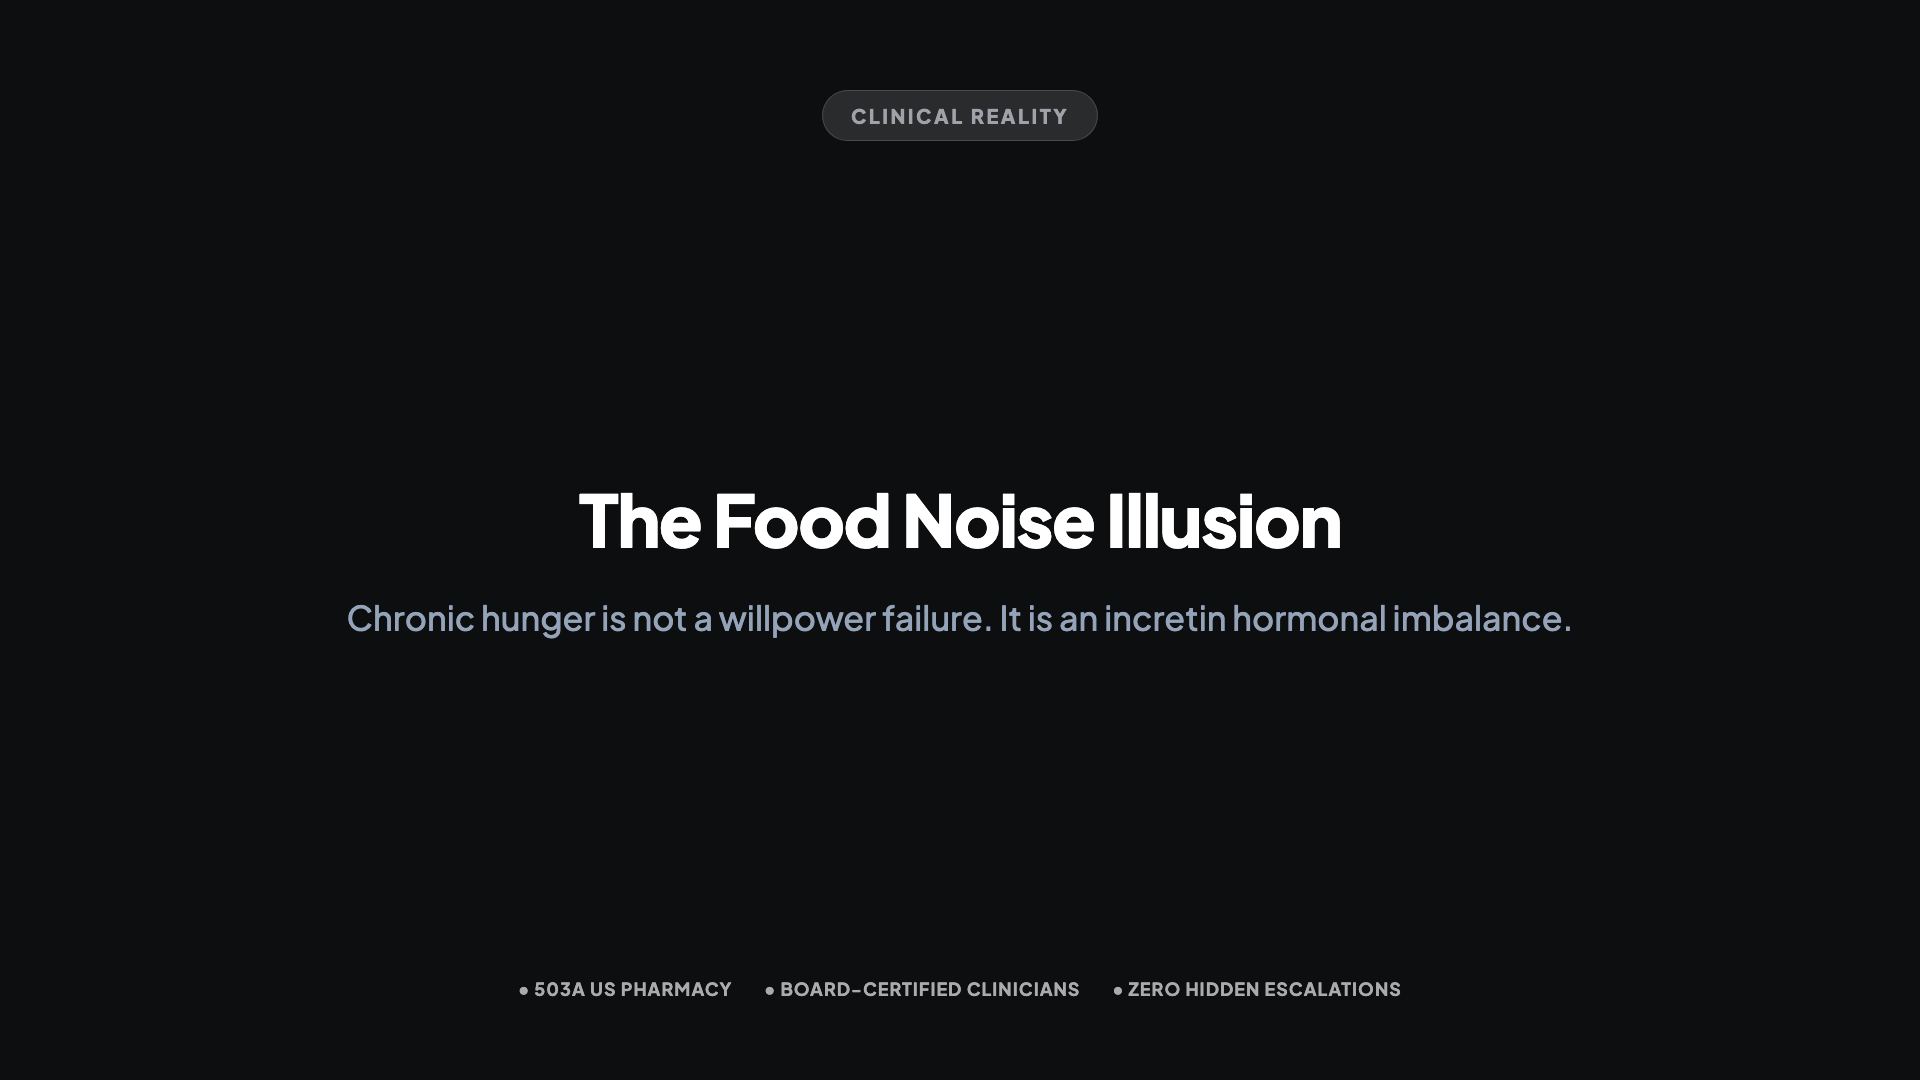
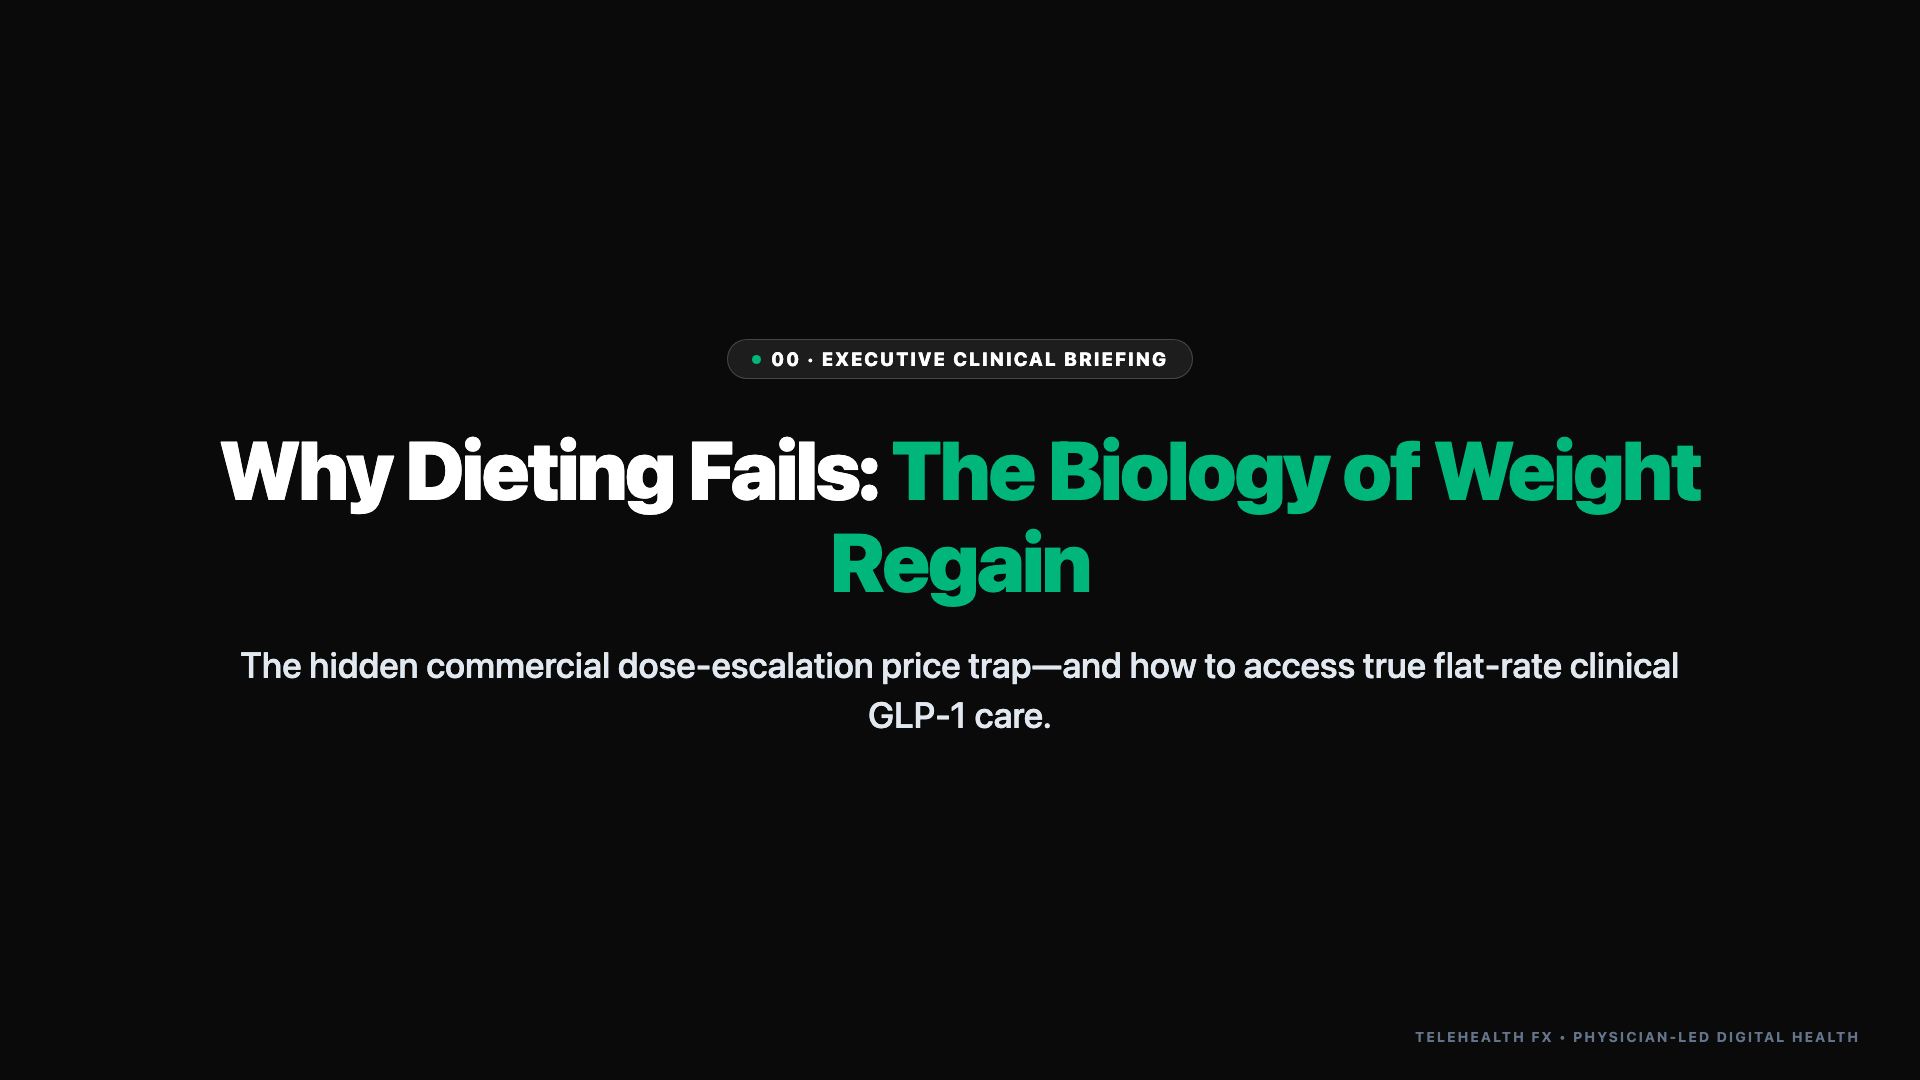
fix(briefings): remove angle jargon, align card titles and hero-cover plates with slide content

diff --git a/public/briefings/index.html b/public/briefings/index.html
@@ -78,19 +78,19 @@
       <!-- Briefings Grid -->
       <div class="grid grid-cols-1 md:grid-cols-2 gap-8 mb-16">
 
-        <!-- Briefing Card 1: Angle 0 -->
+        <!-- Briefing Card 1 -->
         <div class="group rounded-2xl border border-white/10 bg-dark-900/60 p-6 flex flex-col justify-between hover:border-brand-500/40 hover:bg-dark-900 transition-all duration-200">
           <div>
             <div class="relative rounded-xl overflow-hidden mb-5 bg-dark-950 aspect-video border border-white/5">
-              <img src="/briefings/food-noise-metabolic-reset/hero-cover.png" alt="Food Noise & Satiety Reset Briefing" class="w-full h-full object-cover group-hover:scale-102 transition duration-300">
+              <img src="/briefings/food-noise-metabolic-reset/hero-cover.png" alt="Why Dieting Fails: The Biology of Weight Regain" class="w-full h-full object-cover group-hover:scale-102 transition duration-300">
               <div class="absolute inset-0 bg-gradient-to-t from-dark-950 via-transparent to-transparent opacity-60"></div>
-              <span class="absolute top-3 left-3 px-2.5 py-1 rounded-md text-[11px] font-mono font-bold bg-dark-900/90 text-brand-400 border border-brand-500/30">ANGLE 00 · FLAGSHIP</span>
-              <span class="absolute bottom-3 right-3 px-2 py-0.5 rounded text-[11px] font-mono bg-dark-950/80 text-slate-300">7.5 MINS</span>
+              <span class="absolute top-3 left-3 px-2.5 py-1 rounded-md text-[11px] font-mono font-bold bg-dark-900/90 text-brand-400 border border-brand-500/30">FEATURED CLINICAL MASTERCLASS</span>
+              <span class="absolute bottom-3 right-3 px-2 py-0.5 rounded text-[11px] font-mono bg-dark-950/80 text-slate-300">4.7 MINS</span>
             </div>
 
             <div class="text-xs font-mono text-brand-400 uppercase tracking-wider mb-2">Biological Incretin Mechanics</div>
             <h2 class="text-xl font-bold text-white mb-2 group-hover:text-brand-300 transition">
-              The Food Noise &amp; Metabolic Satiety Reset Briefing
+              Why Dieting Fails: The Biology of Weight Regain &amp; Satiety
             </h2>
             <p class="text-sm text-slate-300 leading-relaxed mb-4">
               Why 95% of calorie-restriction diets trigger biological hunger rebound, how incretins silence constant food thoughts within 48 hours, and how to access doctor-prescribed flat-rate GLP-1 therapy ($69/mo Semaglutide, $119/mo Tirzepatide).
@@ -105,13 +105,13 @@
           </div>
         </div>
 
-        <!-- Briefing Card 2: Angle 1 -->
-        <div class="group rounded-2xl border border-white/10 bg-dark-900/60 p-6 flex flex-col justify-between hover:border-brand-500/40 hover:bg-dark-900 transition-all duration-200">
+        <!-- Briefing Card 2 -->
+        <div class="group rounded-2xl border border-white/10 bg-dark-900/60 p-6 flex flex-col justify-between hover:border-amber-500/40 hover:bg-dark-900 transition-all duration-200">
           <div>
             <div class="relative rounded-xl overflow-hidden mb-5 bg-dark-950 aspect-video border border-white/5">
-              <img src="/briefings/glp1-price-trap-expose/hero-cover.png" alt="GLP-1 Price Trap Expose" class="w-full h-full object-cover group-hover:scale-102 transition duration-300">
+              <img src="/briefings/glp1-price-trap-expose/hero-cover.png" alt="The Dose Escalation Price Trap Expose" class="w-full h-full object-cover group-hover:scale-102 transition duration-300">
               <div class="absolute inset-0 bg-gradient-to-t from-dark-950 via-transparent to-transparent opacity-60"></div>
-              <span class="absolute top-3 left-3 px-2.5 py-1 rounded-md text-[11px] font-mono font-bold bg-dark-900/90 text-amber-400 border border-amber-500/30">ANGLE 01 · PRICING EXPOSE</span>
+              <span class="absolute top-3 left-3 px-2.5 py-1 rounded-md text-[11px] font-mono font-bold bg-dark-900/90 text-amber-400 border border-amber-500/30">INVESTIGATIVE PRICING REPORT</span>
               <span class="absolute bottom-3 right-3 px-2 py-0.5 rounded text-[11px] font-mono bg-dark-950/80 text-slate-300">4.7 MINS</span>
             </div>
 
@@ -120,7 +120,7 @@
               The GLP-1 Dose Escalation Price Trap Expose
             </h2>
             <p class="text-sm text-slate-300 leading-relaxed mb-4">
-              Exposing the predatory bait-and-switch where retail platforms start patients at $99–$199/mo then escalate to $400–$600/mo as dosage increases — and how transparent 503A compounding guarantees $69/mo across every single dose.
+              Exposing the predatory stair-step where retail platforms start patients at $199/mo then escalate to $400–$500/mo as dosage increases — and how transparent 503A compounding guarantees $69/mo across every single dose.
             </p>
           </div>
 
